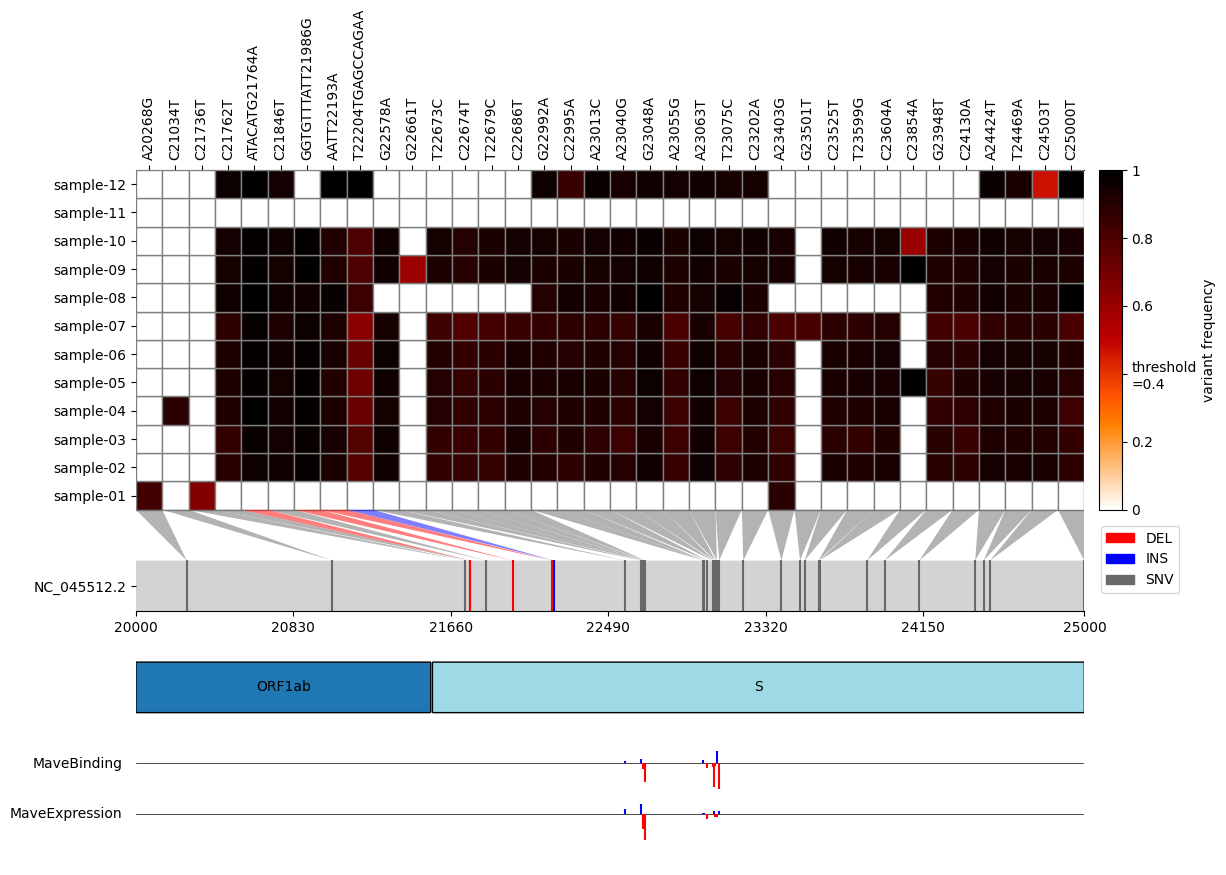
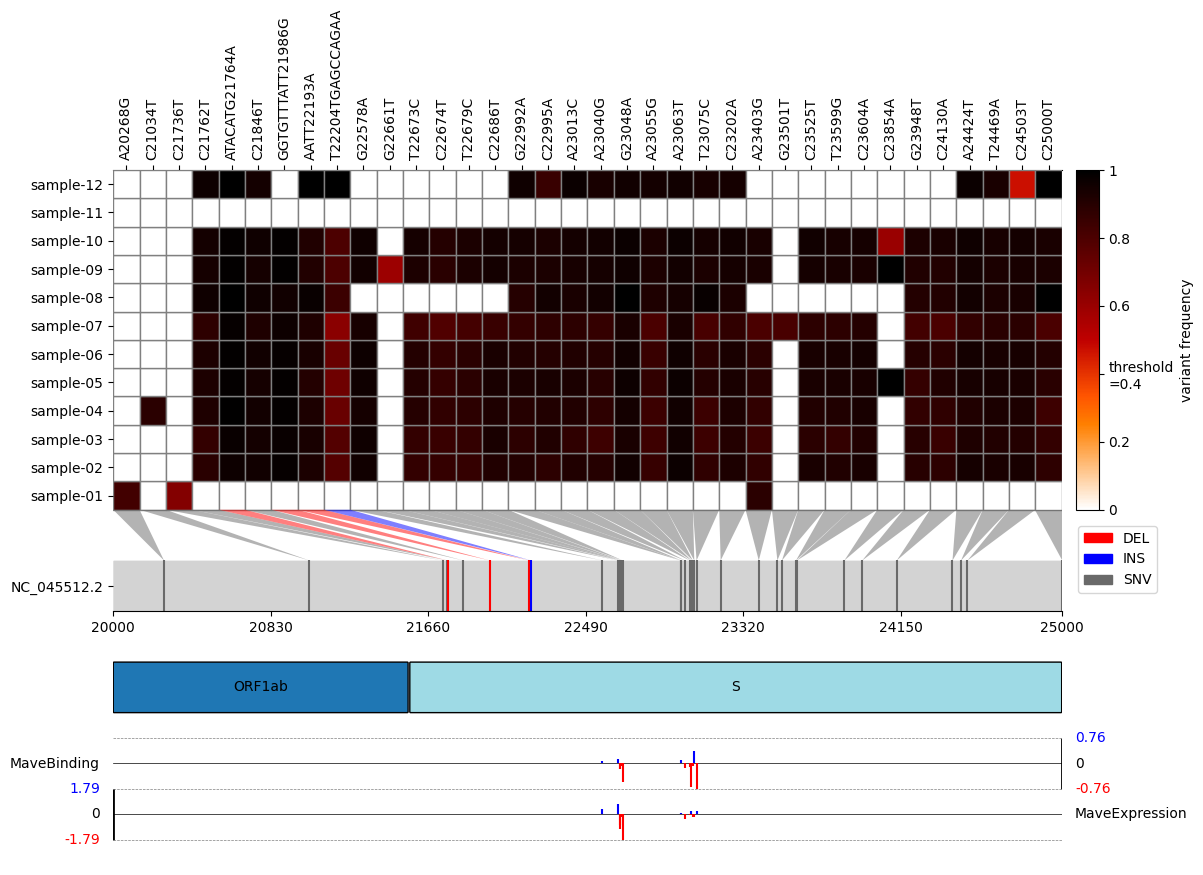
added score boundaries and scale

diff --git a/virheat/scripts/plotting.py b/virheat/scripts/plotting.py
@@ -82,21 +82,39 @@ def create_scores_vis(ax, genome_y_location, n_mutations, n_tracks, unique_mutat
             score_set.append((int(mutation_attributes[0]), float(mutation_attributes[5])))
     # check if there is something to plot
     if score_set:
-        # create zero line and score name on the left
-        plt.axhline(y=y_zero, color='black', linestyle='-', linewidth=0.5)
-        ax.text(-0.5, y_zero, score_name, ha='right', va='center')
         # define normalization multiplier for the height of the score v lines
-        multiplier = max([abs(score[1]) for score in score_set]) / abs((y_zero + genome_y_location / 4) - y_zero)
-        # create score lines on the score rectangle and the mapping to the respective mutation lines
+        max_value = max([abs(score[1]) for score in score_set])  # max abs in score set
+        multiplier = max_value / abs((y_zero + genome_y_location / 4) - y_zero)
+        # add text for scale and score_name
+        if score_count % 2 == 0:
+            score_name_loc, scale_loc, vline_loc = ax.get_xlim()[1] + 0.5, ax.get_xlim()[0] - 0.5, ax.get_xlim()[0]
+            name_ha_aln, scale_ha_aln = "left", "right"
+        else:
+            score_name_loc, scale_loc, vline_loc = ax.get_xlim()[0] - 0.5, ax.get_xlim()[1] + 0.5, ax.get_xlim()[1]
+            name_ha_aln, scale_ha_aln = "right", "left"
+        # score name
+        ax.text(score_name_loc, y_zero, score_name, ha=name_ha_aln, va='center')
+        # scale
+        ax.text(scale_loc, y_zero, "0", ha=scale_ha_aln, va='center')
+        ax.text(scale_loc, y_zero - genome_y_location / 4, -max_value, ha=scale_ha_aln, va='center', color='red')
+        ax.text(scale_loc, y_zero + genome_y_location / 4, max_value, ha=scale_ha_aln, va='center', color='blue')
+        plt.vlines(x=vline_loc, ymin=y_zero - genome_y_location / 4, ymax=y_zero + genome_y_location / 4, color='black', linewidth=2)
+        # add h line boundaries for scale
+        if score_count is 1:
+            plt.axhline(y=y_zero + genome_y_location / 4, color='grey', linestyle='--', linewidth=0.5)
+        plt.axhline(y=y_zero - genome_y_location / 4, color='grey', linestyle='--', linewidth=0.5)
+        # create zero line
+        plt.axhline(y=y_zero, color='black', linestyle='-', linewidth=0.5)
+        # create bars for scores
         for score in score_set:
             # define x value
             mutation_x_location = n_mutations / length * (score[0] - start)
-            # define y value
             # create lines for score_set
             if score[1] < 0:
                 plt.vlines(x=mutation_x_location, ymin=y_zero + score[1]/multiplier, ymax=y_zero, color="red", linestyle='-')
             else:
                 plt.vlines(x=mutation_x_location, ymin=y_zero, ymax=y_zero + score[1] / multiplier, color="blue", linestyle='-')
+
         return True
     # if not the track is not created
     else:
@@ -148,7 +166,7 @@ def create_mutation_legend(mutation_set, min_y_location, n_samples, n_scores):
     plt.legend(bbox_to_anchor=(1.01, 0.95-(n_samples/(min_y_location+n_samples+n_scores))), handles=legend_patches)
 
 
-def create_axis(ax, n_mutations, min_y_location, n_samples, file_names, start, stop, genome_y_location, unique_mutations, reference_name, n_scoresets=0):
+def create_axis(ax, n_mutations, min_y_location, n_samples, file_names, start, stop, genome_y_location, unique_mutations, reference_name):
     """
     create the axis of the plot
     """

diff --git a/virheat/command.py b/virheat/command.py
@@ -221,7 +221,7 @@ def main(sysargs=sys.argv[1:]):
     plotting.create_heatmap(ax, frequency_array, cmap_cells)
     mutation_set = plotting.create_genome_vis(ax, genome_y_location, n_mutations, unique_mutations, start, stop)
     plotting.create_axis(ax, n_mutations, min_y_location, n_samples, file_names, start, stop, genome_y_location,
-                         unique_mutations, reference_name, n_scores)
+                         unique_mutations, reference_name)
     plotting.create_mutation_legend(mutation_set, min_y_location, n_samples, n_scores)
     plotting.create_colorbar(args.threshold, cmap_cells, min_y_location, n_samples, ax)
     # plot gene track
